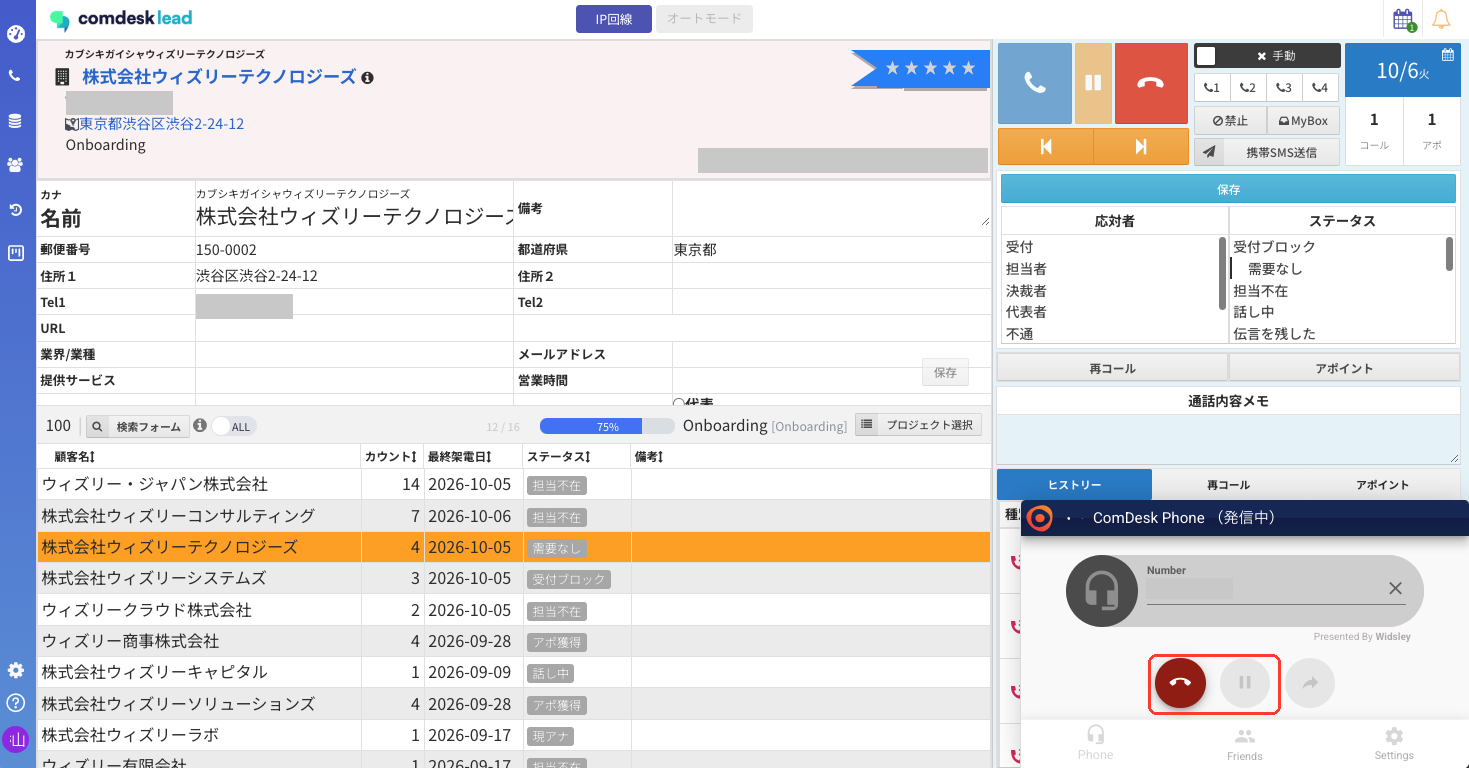
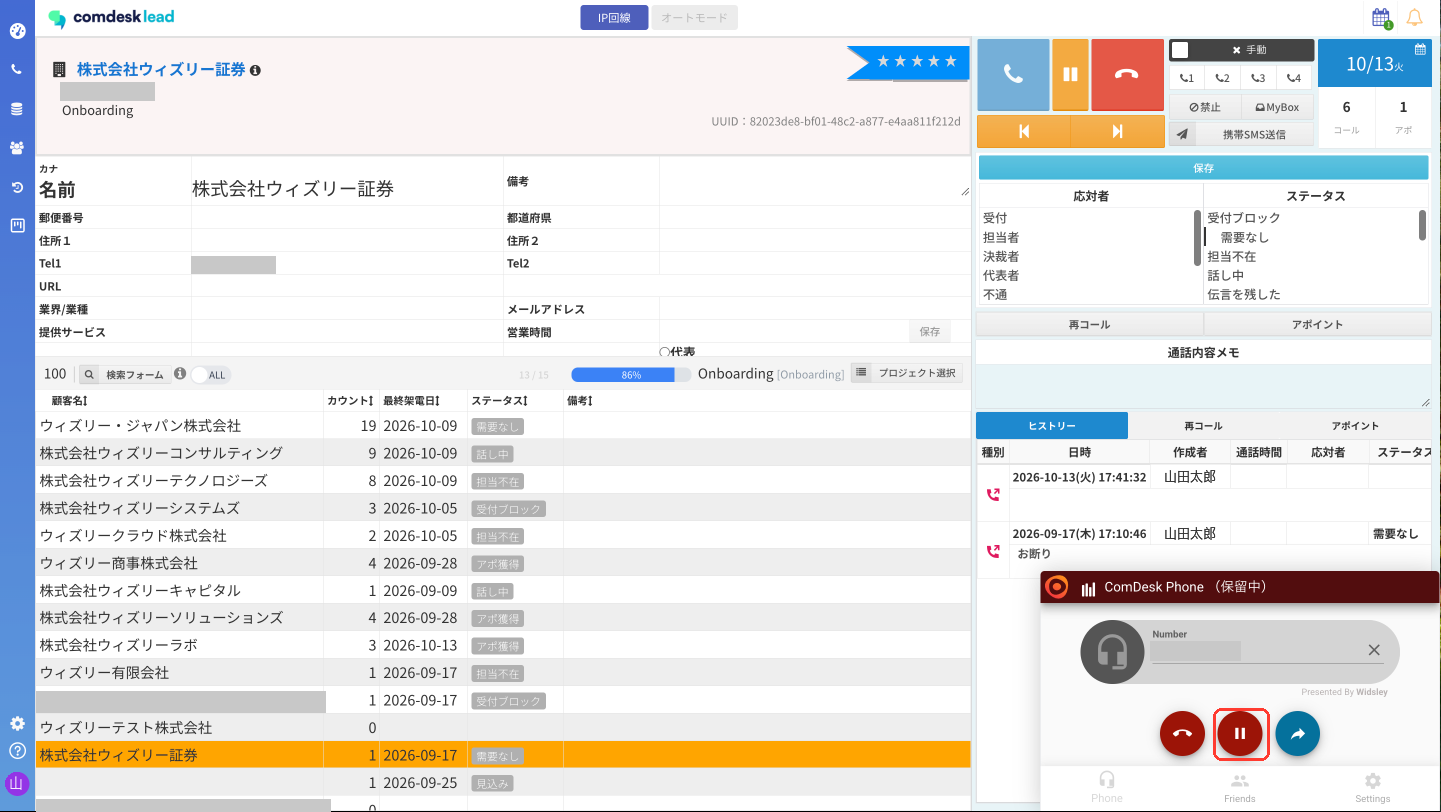
IP回線: 保留・転送の手順を新しいスクリーンショットに差し替え

Changed region(s): [[0.0, 0.0, 1.0, 1.0], [0.9368, 0.9375, 0.9681, 1.0], [0.4372, 0.3125, 0.4997, 0.3438]]

diff --git a/guide/user/12773908516505.md b/guide/user/12773908516505.md
@@ -75,10 +75,28 @@ IP回線で架電する方法をご案内します。
     </Frame>
   </Step>
   <Step title="必要に応じて保留・転送する">
-    通話中は、赤枠内のボタンから保留・転送ができます。
+    通話中は、保留や転送ができます。
 
-    <Frame caption="通話中の操作ボタン">
-      <img src="/.gitbook/assets/12773908516505_8.png" alt="通話中のComDesk Phoneの切電・保留・転送ボタン" />
+    **保留する場合**
+
+    赤枠内の一時停止ボタンをクリックすると、通話が保留されます。
+
+    <Frame caption="保留中のComDesk Phone">
+      <img src="/.gitbook/assets/12773908516505_8.png" alt="一時停止ボタンを赤枠で囲み、「保留中」と表示されたComDesk Phone" />
+    </Frame>
+
+    **転送する場合**
+
+    赤枠内の矢印ボタンをクリックします。
+
+    <Frame caption="転送ボタン">
+      <img src="/.gitbook/assets/12773908516505_10.png" alt="通話中のComDesk Phoneの転送（矢印）ボタンを赤枠で囲んだ画面" />
+    </Frame>
+
+    転送画面が表示されます。赤枠内の「内線転送」または「外線転送」を選択し、転送先を選んで「この番号へ転送する」をクリックします。転送をやめる場合は、「転送中止」をクリックします。
+
+    <Frame caption="転送画面">
+      <img src="/.gitbook/assets/12773908516505_11.png" alt="内線転送・外線転送のタブを赤枠で囲んだ転送画面" />
     </Frame>
   </Step>
   <Step title="切電して結果を保存する">
